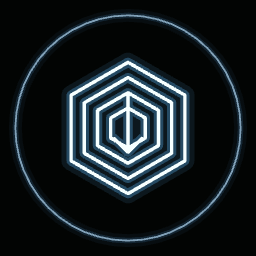
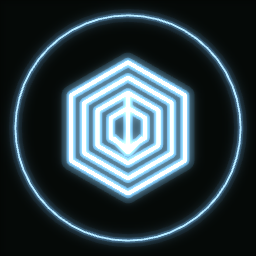
Capture the store art again from the finished look

diff --git a/game/src/poster.js b/game/src/poster.js
@@ -108,10 +108,11 @@ const TOGETHER = {
   world: 3,
   shape: 'heptagon',
   ships: [0, 5],
-  shipLanes: [-1, 1],
+  shipLanes: [0, 1],
   stretch: 1.55,
   t0: 0,
-  header: 0.025,
+  header: 0.03,
+  footer: 0.1,
   rings: [0.1, 0.2, 0.32, 0.46, 0.62, 0.8],
   trails: true,
   bloom: true,
@@ -133,7 +134,7 @@ const TOGETHER = {
     [E.FLIPPER, 14, 0.2],
   ],
   pulses: [9],
-  bolts: [[-1, 0.15], [-1, 0.35], [1, 0.22], [1, 0.42], [1, 0.6]],
+  bolts: [[0, 0.15], [0, 0.35], [1, 0.22], [1, 0.42], [1, 0.6]],
   chord: [-5, 5, 9],
   chordDepths: [0.4, 0.34, 0.5],
   tether: true,
@@ -154,7 +155,7 @@ function thumb(vec, W, H, o) {
   const view = new View(vec, fx);
   if (o.stretch) view.maxStretch = o.stretch;
   view.setWeb(w.web, def.hue, false);
-  view.layout(W, H, H * (o.header || 0.03), H * 0.05);
+  view.layout(W, H, H * (o.header || 0.03), H * (o.footer || 0.05));
   view.minSize = Math.max(9, H / 55);
   const n = w.n;
   const at = (off) => (((w.web.start + off) % n) + n) % n;
